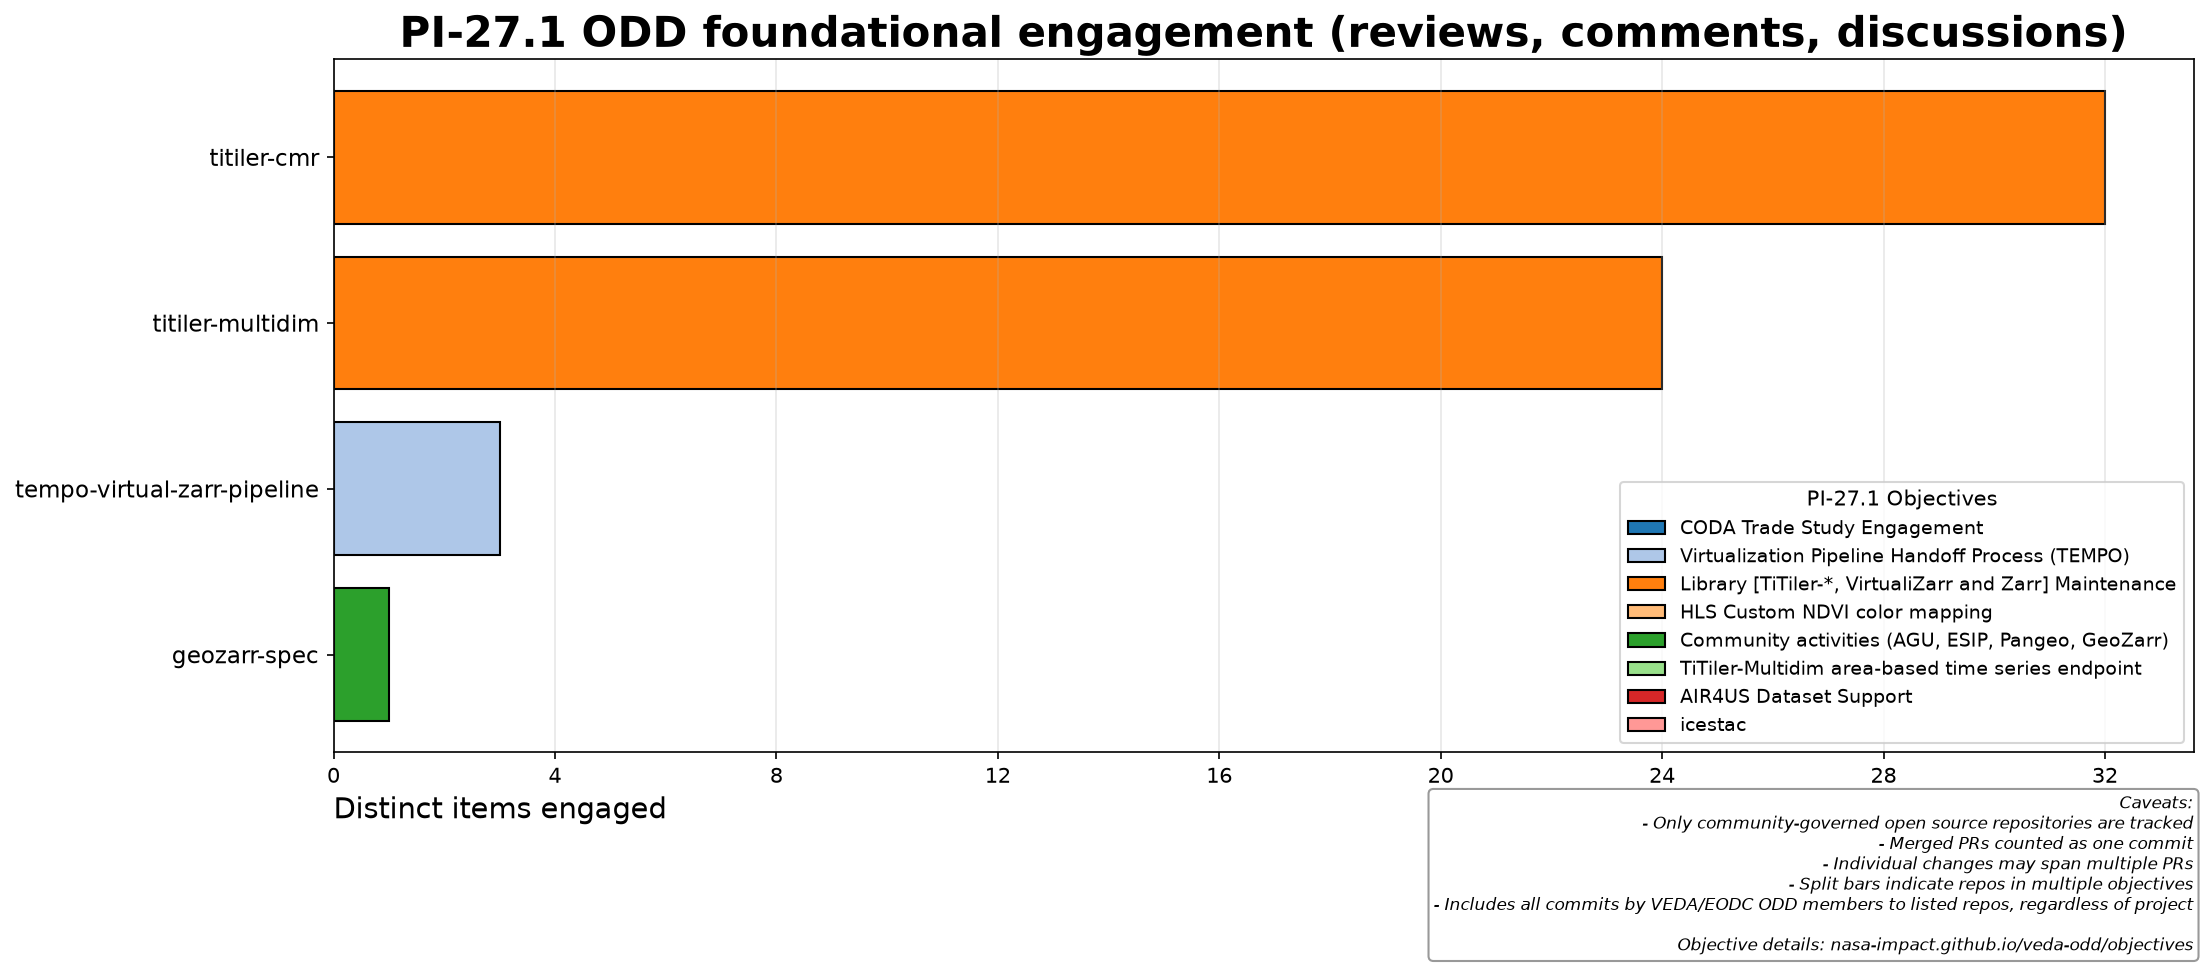
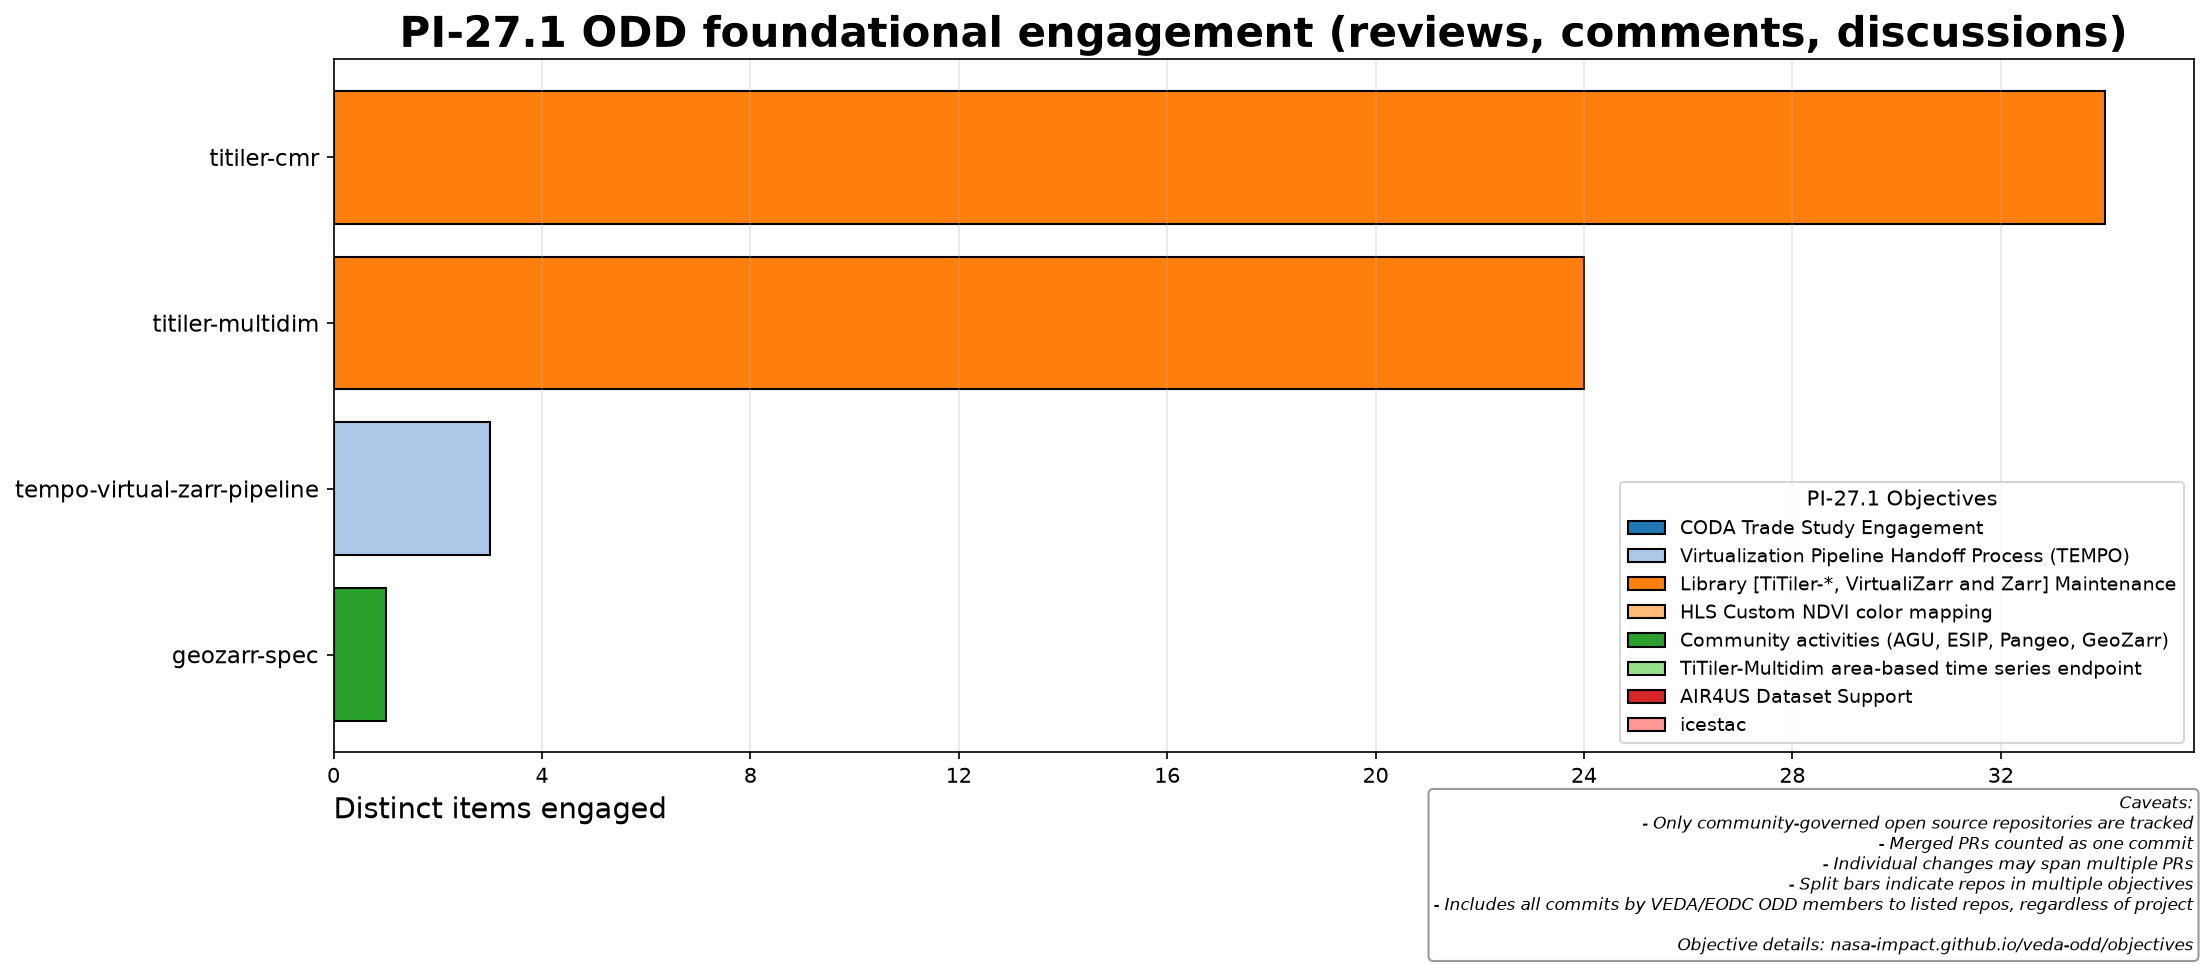
Update reports for 45189725592

Changed region(s): [[0.7188, 0.2472, 0.7812, 0.4016], [0.2188, 0.4325, 0.25, 0.5561]]

diff --git a/docs/objectives.md b/docs/objectives.md
@@ -101,13 +101,13 @@ This page tracks quarterly objectives for the VEDA/EODC ODD team and the open-so
 </details>
 
 <details markdown>
-<summary>PI 25.4 (8 original objectives; 7 closed as completed; 0 closed as not planned; 1 still open)</summary>
+<summary>PI 25.4 (8 original objectives; 8 closed as completed; 0 closed as not planned)</summary>
 
 | # | Objective | State | Contributors |
 |---|-----------|-------|--------------|
 | [#121](https://github.com/NASA-IMPACT/veda-odd/issues/121) | Visualize Web-Optimized Zarr (WOZ) in VEDA (pre... | closed (completed) | maxrjones |
 | [#122](https://github.com/NASA-IMPACT/veda-odd/issues/122) | Research, develop and document methods for Zarr... | closed (completed) | maxrjones, kylebarron |
-| [#197](https://github.com/NASA-IMPACT/veda-odd/issues/197) | 🎬 TiTiler-CMR is production ready | open | abarciauskas-bgse, hrodmn |
+| [#197](https://github.com/NASA-IMPACT/veda-odd/issues/197) | 🎬 TiTiler-CMR is production ready | closed (completed) | abarciauskas-bgse, hrodmn |
 | [#198](https://github.com/NASA-IMPACT/veda-odd/issues/198) | 🚀 Dataset support for VEDA instances | closed (completed) | maxrjones, jbusecke |
 | [#203](https://github.com/NASA-IMPACT/veda-odd/issues/203) | 🗺Research, develop and document methods for Za... | closed (completed) | maxrjones |
 | [#204](https://github.com/NASA-IMPACT/veda-odd/issues/204) | 🛠 Zarr Development | closed (completed) | d-v-b, maxrjones |
